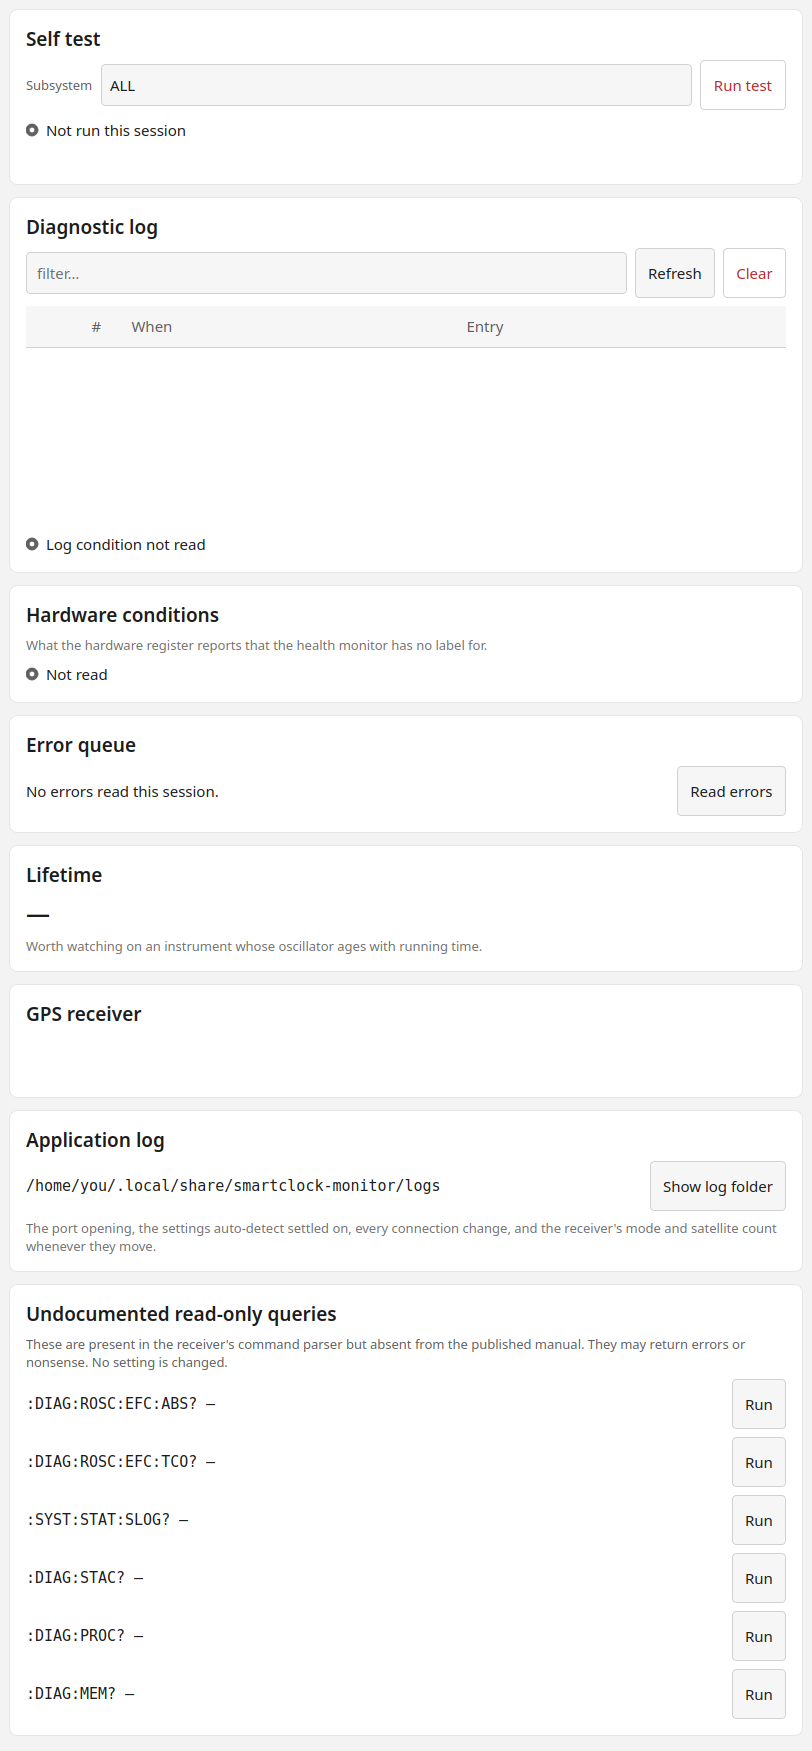
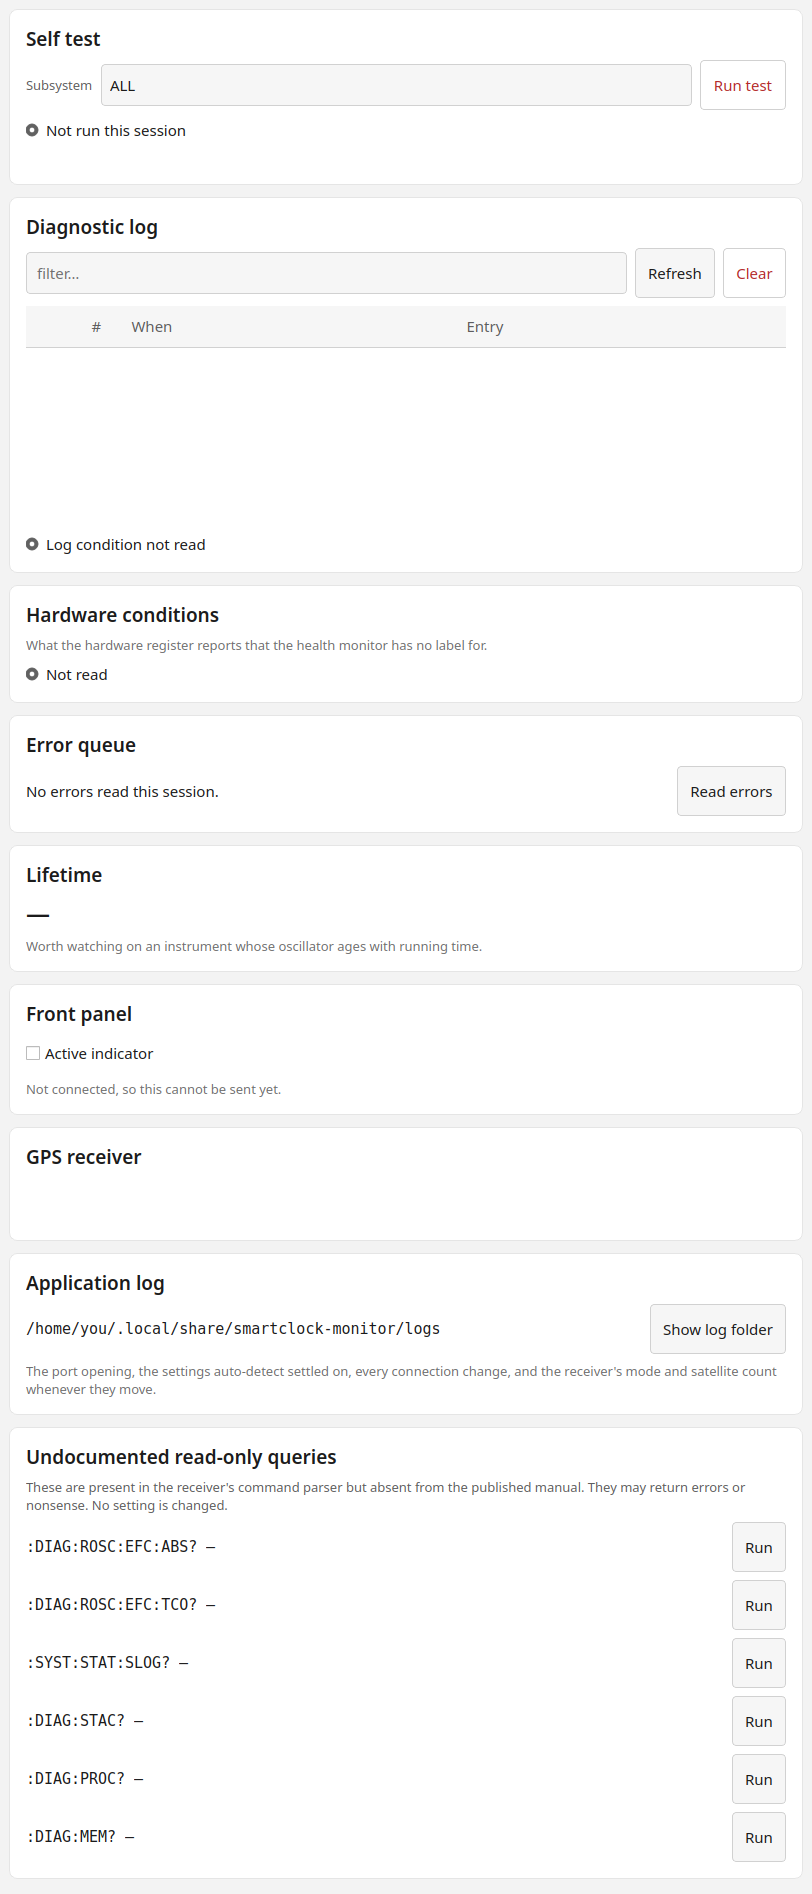
Catalogue §8.2's Safe setters, and give the lamp somewhere to be used
#118's second batch, and the first that writes to the receiver.

FOUR SETTERS. :LED:ACTive and :LED:ENABled are §8.2's Safe non-queries -
Safe because they change no receiver behaviour, so a §8.3 confirmation
would be asking permission to change nothing. *ESE and *SRE are §8.3's
mask setters and carry §8.3's sentence verbatim, shared between them as
the document shares it.

All four were put to the bench before being catalogued, with the ERROR
QUEUE DRAINED FIRST - and that clause is the whole of it. Read without
a drain, every :LED: write appears to raise E-221 "Settings conflict",
and I nearly recorded that as a finding. Drained, all four write
cleanly, both spellings work, the lamps read back as commanded, and
nothing is queued. The errors were a previous sweep's, which is the
attribution trap #105 exists for, met for the second time in a day.

§10.9's FRONT PANEL CARD gives :LED:ACTive a consumer: a toggle for the
Active indicator, which is the escape hatch for a lamp left lit by an
application that closed unexpectedly and the only way to exercise the
command at all until something drives it (#123).

Tier S, so no confirmation, and §9.11's other half follows - a Safe
setter gets no success bar, so THE TOGGLE'S OWN POSITION IS THE
FEEDBACK, and a write the receiver refuses puts it back. A switch that
stayed where a user put it while the lamp did not move would be the one
lie this card can tell.

The refresh sets the switch with its signals blocked, which is not
[…]

diff --git a/src/smartclock_monitor/views/diagnostics_page.py b/src/smartclock_monitor/views/diagnostics_page.py
@@ -30,6 +30,7 @@ from PySide6.QtCore import QUrl
 from PySide6.QtGui import QDesktopServices
 from PySide6.QtWidgets import (
     QAbstractItemView,
+    QCheckBox,
     QComboBox,
     QHBoxLayout,
     QHeaderView,
@@ -50,7 +51,7 @@ from smartclock_device.models.diagnostic_log_entry import DiagnosticLogEntry
 from smartclock_device.models.status_register_map import faults_with_no_health_label
 from smartclock_device.parsing import gps_engine
 from smartclock_device.parsing.diagnostic_log import parse_all
-from smartclock_device.parsing.scalars import parse_integer
+from smartclock_device.parsing.scalars import parse_boolean, parse_integer
 from smartclock_device.transport.transaction import Transaction
 from smartclock_monitor.platform.paths import log_directory
 from smartclock_monitor.services.commands import CommandRunner
@@ -110,6 +111,7 @@ class DiagnosticsPage(Page):
         layout.addWidget(self._build_conditions())
         layout.addWidget(self._build_queue())
         layout.addWidget(self._build_lifetime())
+        layout.addWidget(self._build_front_panel())
         layout.addWidget(self._build_gps_engine())
         layout.addWidget(self._build_application_log())
         layout.addWidget(self._build_experimental())
@@ -473,6 +475,51 @@ class DiagnosticsPage(Page):
         del reading
         self._retune()
 
+    def _build_front_panel(self) -> QWidget:
+        """§10.9's Front panel card: a toggle for the Active lamp.
+
+        **The manual half of the lamp feature.** It is the escape hatch for a lamp left lit by an
+        application that closed unexpectedly, and the only way to exercise `:LED:ACTive` at all
+        until something drives it automatically (#123).
+
+        Tier S, so no confirmation — §8.2's ruling is that the command changes no receiver
+        behaviour, and a confirmation would be asking permission to change nothing. §9.11's other
+        half follows: a Safe setter gets no success bar, so **the toggle's own position is the
+        feedback**, and a write that fails puts it back.
+        """
+        holder, holder_layout = card("Front panel")
+        self._lamp = QCheckBox("Active indicator")
+        self._lamp.setAccessibleName("The receiver's front-panel Active indicator")
+        self._lamp.clicked.connect(self._write_lamp)
+        holder_layout.addWidget(self._lamp)
+        self._lamp_note = label(
+            "The receiver takes about a second to answer a lamp write, so the switch settles a "
+            "moment after you click it.",
+            "tertiary",
+        )
+        self._lamp_note.setWordWrap(True)
+        holder_layout.addWidget(self._lamp_note)
+        return holder
+
+    def _write_lamp(self, wanted: bool) -> None:
+        """Write the lamp, and put the switch back if the receiver does not take it."""
+        runner = self._runner
+        if runner is None or not runner.is_connected:
+            self._lamp.setChecked(not wanted)
+            return
+        runner.run(
+            [(Capability.SET_ACTIVE_LAMP, "ON" if wanted else "OFF")],
+            lambda outcomes: self._absorb_lamp_write(outcomes, wanted),
+        )
+
+    def _absorb_lamp_write(self, outcomes: Sequence[CommandOutcome], wanted: bool) -> None:
+        wrote = next((o for o in outcomes if o.capability is Capability.SET_ACTIVE_LAMP), None)
+        if wrote is None or wrote.transaction is None or not wrote.transaction.succeeded:
+            # **Back where it was, and a sentence saying why.** A switch that stayed where a user
+            # put it while the lamp did not move would be the one lie this card can tell.
+            self._lamp.setChecked(not wanted)
+            self._lamp_note.setText("The receiver did not take that; the switch is back as it was.")
+
     def _build_gps_engine(self) -> QWidget:
         """§10.9's third card: what GPS receiver is inside the instrument.
 
@@ -517,6 +564,8 @@ class DiagnosticsPage(Page):
         gate(self._clear_log, driver, Capability.CLEAR_DIAGNOSTIC_LOG)
         gate(self._refresh_log, driver, Capability.DIAGNOSTIC_LOG)
         gate(self._read_errors, driver, Capability.ERROR_QUEUE)
+        if not gate(self._lamp, driver, Capability.ACTIVE_LAMP, Capability.SET_ACTIVE_LAMP):
+            self._lamp_note.setText(explain(driver))
 
         if driver is not None and driver.command(Capability.OPERATION_CONDITION) is None:
             self._decline_conditions()
@@ -556,6 +605,7 @@ class DiagnosticsPage(Page):
                 (Capability.GPS_ENGINE, None),
                 (Capability.OPERATION_CONDITION, None),
                 (Capability.HARDWARE_CONDITION, None),
+                (Capability.ACTIVE_LAMP, None),
             ],
             self._absorb,
         )
@@ -577,6 +627,16 @@ class DiagnosticsPage(Page):
         # §11.1: an unread or unparseable answer renders a dash rather than "0 h" — a zero being a
         # claim about the hardware where a dash is a statement about the read.
         self._lifetime.setText(DASH if value is None else f"{value:,} h")
+
+        lamp = answered.get(Capability.ACTIVE_LAMP)
+        if lamp is not None and lamp.transaction is not None and lamp.transaction.succeeded:
+            lit = parse_boolean(lamp.transaction.first_line)
+            if lit is not None:
+                # Without the guard the click handler fires on every refresh and writes the lamp
+                # back to where it already is, once a second, for ever.
+                self._lamp.blockSignals(True)
+                self._lamp.setChecked(lit)
+                self._lamp.blockSignals(False)
 
         self._absorb_conditions(answered)
 
@@ -793,6 +853,14 @@ class DiagnosticsPage(Page):
     @property
     def test_result(self) -> SeverityPill:
         return self._test_result
+
+    @property
+    def lamp_switch(self) -> QCheckBox:
+        return self._lamp
+
+    @property
+    def lamp_note_text(self) -> str:
+        return self._lamp_note.text()
 
     @property
     def log_condition(self) -> tuple[Severity, str]:

diff --git a/src/smartclock_device/commands/catalog.py b/src/smartclock_device/commands/catalog.py
@@ -962,6 +962,67 @@ LOG_ENTRY: Final = ScpiCommand(
     maximum=999,
 )
 
+
+# ---- §8.2's two Safe setters, and §8.3's two mask setters (#118) ---------------------------------
+
+#: §8.2's third Safe non-query and the only Safe command that takes a value.
+#:
+#: **Safe because it changes no receiver behaviour** — no timing, no discipline, nothing that
+#: outlives the lamp — so a §8.3 confirmation would be asking permission to change nothing. It is
+#: documented (`z3801.pdf` Table 4-2, *"Sets or queries Active LED"*), so §8.4's permanent block on
+#: undocumented set forms does not reach it.
+#:
+#: Confirmed on the bench 13 Sep 2026 with the error queue **drained first**: both spellings write,
+#: the lamp reads back as commanded, and neither queues an error. That last clause needs the drain
+#: to mean anything — read without one, these writes appear to raise `E-221` and the errors are a
+#: previous sweep's (#105).
+SET_ACTIVE_LAMP: Final = ScpiCommand(
+    mnemonic=":LED:ACTive",
+    summary="Turn the front-panel Active indicator on or off",
+    response=ResponseFormat.NONE,
+    argument=ArgumentKind.KEYWORD,
+    keywords=("ON", "OFF"),
+)
+
+#: The second user-definable indicator. `z3801.pdf`'s *Front Panel at a Glance* names both:
+#: *"User-definable indicators labeled Enabled and Active"*.
+SET_ENABLED_LAMP: Final = ScpiCommand(
+    mnemonic=":LED:ENABled",
+    summary="Turn the front-panel Enabled indicator on or off",
+    response=ResponseFormat.NONE,
+    argument=ArgumentKind.KEYWORD,
+    keywords=("ON", "OFF"),
+)
+
+#: IEEE 488.2's two mask setters, at §8.3's tier with §8.3's sentence.
+#:
+#: **The sentence is shared and is the specification's own.** §8.3 gives one row to both, and its
+#: wording covers both operations — which is the shape §8.3's own amendment note warns about, where
+#: `:IGN:NONE` shared a sentence with the command that did the opposite. It is carried verbatim
+#: rather than improved, because §8.3's text is the authority and a divergence in a confirmation
+#: sentence is exactly the kind that should be argued in an issue rather than made in a catalogue.
+SET_EVENT_ENABLE_MASK: Final = ScpiCommand(
+    mnemonic="*ESE",
+    summary="Set the standard event status enable mask",
+    response=ResponseFormat.NONE,
+    tier=SafetyTier.CONFIRM,
+    argument=ArgumentKind.INTEGER,
+    minimum=0,
+    maximum=65535,
+    confirmation="Change event/service-request enable mask?",
+)
+
+SET_SERVICE_REQUEST_MASK: Final = ScpiCommand(
+    mnemonic="*SRE",
+    summary="Set the service request enable mask",
+    response=ResponseFormat.NONE,
+    tier=SafetyTier.CONFIRM,
+    argument=ArgumentKind.INTEGER,
+    minimum=0,
+    maximum=65535,
+    confirmation="Change event/service-request enable mask?",
+)
+
 #: Every catalogued command. **The allowlist.**
 ALL: Final[tuple[ScpiCommand, ...]] = (
     IDENTITY,
@@ -1045,6 +1106,10 @@ ALL: Final[tuple[ScpiCommand, ...]] = (
     ENABLED_LAMP,
     LAST_QUERY_RESPONSE,
     LOG_ENTRY,
+    SET_ACTIVE_LAMP,
+    SET_ENABLED_LAMP,
+    SET_EVENT_ENABLE_MASK,
+    SET_SERVICE_REQUEST_MASK,
     *EXPERIMENTAL,
 )
 

diff --git a/tests/test_register_conditions.py b/tests/test_register_conditions.py
@@ -23,6 +23,7 @@ from conftest import NOW
 from smartclock_device.clock import FixedClock
 from smartclock_device.commands import catalog
 from smartclock_device.drivers.nmea.driver import NmeaDriver
+from smartclock_device.drivers.smartclock import SmartClockDriver
 from smartclock_device.models import status_register_map as registers
 from smartclock_device.models.status_register_map import faults_with_no_health_label
 from smartclock_monitor.themes.severity import Severity
@@ -196,3 +197,68 @@ def test_the_pills_follow_a_theme_change() -> None:
     page.set_palette_tokens(DARK)
 
     assert page.palette_of_condition_pills() == [DARK] * 2
+
+
+# ---- §10.9's Front panel card (#118) -------------------------------------------------------------
+
+
+def test_the_lamp_switch_shows_what_the_receiver_says() -> None:
+    page = page_reading(
+        **{
+            catalog.ACTIVE_LAMP.mnemonic: "1",
+            catalog.HARDWARE_CONDITION.mnemonic: "+0",
+            catalog.OPERATION_CONDITION.mnemonic: "+26",
+        }
+    )
+
+    assert page.lamp_switch.isChecked() is True
+
+
+def test_clicking_the_switch_writes_the_lamp() -> None:
+    """Tier S, so no confirmation: §8.2's ruling is that the command changes no receiver behaviour
+    and a confirmation would be asking permission to change nothing."""
+    page = DiagnosticsPage()
+    runner = FakeRunner(
+        answers={catalog.ACTIVE_LAMP.mnemonic: "0", catalog.SET_ACTIVE_LAMP.mnemonic: ""}
+    )
+    page.set_command_runner(runner)
+
+    page.lamp_switch.click()
+
+    assert (catalog.SET_ACTIVE_LAMP.mnemonic, "ON") in runner.sent
+    assert page.lamp_switch.isChecked() is True
+
+
+def test_a_write_the_receiver_refuses_puts_the_switch_back() -> None:
+    """§9.11: a Safe setter gets no success bar, so the switch's own position is the feedback — and
+    a switch that stayed where a user put it while the lamp did not move would be the one lie this
+    card can tell."""
+    page = DiagnosticsPage()
+    page.set_command_runner(FakeRunner(driver_for=SmartClockDriver(clock=FixedClock(NOW))))
+
+    page.lamp_switch.click()
+
+    assert page.lamp_switch.isChecked() is False
+    assert "back as it was" in page.lamp_note_text
+
+
+def test_a_refresh_does_not_write_the_lamp_back_at_itself() -> None:
+    """The click handler must not fire when the page sets the switch from a reading. Unguarded, a
+    page open on a locked receiver writes the lamp once a second for ever — and each write takes
+    the receiver about a second."""
+    page = DiagnosticsPage()
+    runner = FakeRunner(answers={catalog.ACTIVE_LAMP.mnemonic: "1"})
+    page.set_command_runner(runner)
+    page.refresh()
+
+    assert not [
+        mnemonic for mnemonic, _ in runner.sent if mnemonic == catalog.SET_ACTIVE_LAMP.mnemonic
+    ]
+
+
+def test_a_family_with_no_lamp_keeps_the_switch_and_explains() -> None:
+    page = DiagnosticsPage()
+    page.set_command_runner(FakeRunner(driver_for=NmeaDriver(clock=FixedClock(NOW))))
+
+    assert page.lamp_switch.isEnabled() is False
+    assert "no command for this" in page.lamp_note_text

diff --git a/tests/test_catalogue_covers_the_spec.py b/tests/test_catalogue_covers_the_spec.py
@@ -36,7 +36,7 @@ _SECTION: Final = "### 8.2 Tier S"
 #: trailing ``?``. Parameters are written ``<PRN>`` beside the mnemonic and are not part of it.
 _MNEMONIC: Final = re.compile(r"^[:*][A-Za-z:*]+\??$")
 
-#: The two entries in §8.2 that are **not queries**, each excluded for a stated reason rather than
+#: The one entry in §8.2 that is **not catalogued**, excluded for a stated reason rather than
 #: because the gate was inconvenient.
 #:
 #: ``*TST?`` is a query in spelling and a self-test in effect. §10.9 measured what running one costs
@@ -45,9 +45,8 @@ _MNEMONIC: Final = re.compile(r"^[:*][A-Za-z:*]+\??$")
 #: warning about the same operation, and cataloguing it as Safe would put an unconfirmed way to
 #: unlock the receiver in the console beside the confirmed one. **Surfaced, not resolved** (#120).
 #:
-#: ``:LED:ACTive`` is §8.2's Safe *setter*, which is a different batch of work with a different
-#: question attached (what, if anything, should drive the lamps).
-_NOT_QUERIES: Final[frozenset[str]] = frozenset({"*TST?", ":LED:ACTive"})
+#: ``:LED:ACTive`` was here too until #118's second batch catalogued it.
+_NOT_QUERIES: Final[frozenset[str]] = frozenset({"*TST?"})
 
 
 def inventory() -> list[str]:

diff --git a/src/smartclock_device/drivers/capability.py b/src/smartclock_device/drivers/capability.py
@@ -50,6 +50,7 @@ class Capability(Enum):
     ERROR_QUEUE = "the error queue"
     HARDWARE_CONDITION = "the hardware status register"
     OPERATION_CONDITION = "the operation status register"
+    ACTIVE_LAMP = "the front-panel Active indicator"
     TIME_CODE_FORMAT = "the time-code output format"
     TIME_CODE = "the time code itself"
     LEAP_ACCUMULATED = "accumulated leap seconds"
@@ -58,6 +59,7 @@ class Capability(Enum):
     LEAP_STATE = "whether a leap second is announced"
 
     # -- Writing -------------------------------------------------------------------------------
+    SET_ACTIVE_LAMP = "set the front-panel Active indicator"
     SET_ANTENNA_DELAY = "set the antenna delay"
     SET_ELEVATION_MASK = "set the elevation mask"
     SET_HOLDOVER_DURATION_THRESHOLD = "set the holdover uncertainty threshold"

diff --git a/src/smartclock_device/drivers/smartclock.py b/src/smartclock_device/drivers/smartclock.py
@@ -252,6 +252,8 @@ _BY_CAPABILITY: Final[dict[Capability, ScpiCommand]] = {
     Capability.ERROR_QUEUE: catalog.ERROR_QUEUE,
     Capability.HARDWARE_CONDITION: catalog.HARDWARE_CONDITION,
     Capability.OPERATION_CONDITION: catalog.OPERATION_CONDITION,
+    Capability.ACTIVE_LAMP: catalog.ACTIVE_LAMP,
+    Capability.SET_ACTIVE_LAMP: catalog.SET_ACTIVE_LAMP,
     Capability.TIME_CODE_FORMAT: catalog.TIME_CODE_FORMAT,
     Capability.TIME_CODE: catalog.TIME_CODE,
     Capability.LEAP_ACCUMULATED: catalog.LEAP_ACCUMULATED,

diff --git a/docs/how-to-use.md b/docs/how-to-use.md
@@ -330,7 +330,7 @@ corrections it had learned, and its time error grows from there.
 
 #### Diagnostics — `Ctrl+6`
 
-![The Diagnostics page: a Self test card with an ALL subsystem picker and a Run test button; a Diagnostic log card with a filter box, Refresh and Clear and a Log has room pill; a Hardware conditions card; an Error queue card with Read errors; a Lifetime card; an Application log card naming the log folder with a Show log folder button; and an Undocumented read-only queries card listing six SCPI queries each with a Run button](images/how-to-use/page-diagnostics.png)
+![The Diagnostics page: a Self test card with an ALL subsystem picker and a Run test button; a Diagnostic log card with a filter box, Refresh and Clear and a Log has room pill; a Hardware conditions card; an Error queue card with Read errors; a Lifetime card; a Front panel card with an Active indicator switch; an Application log card naming the log folder with a Show log folder button; and an Undocumented read-only queries card listing six SCPI queries each with a Run button](images/how-to-use/page-diagnostics.png)
 
 - **Self test** — pick one **subsystem** or `ALL` and press **Run test**, which names what it is
   about to do because the receiver drops what it is doing while it tests itself. Testing one
@@ -359,6 +359,12 @@ corrections it had learned, and its time error grows from there.
   read removes the entry it returns, so what is shown is what was read.
 - **Lifetime** — power-on hours, how long the receiver has run in total. An oven-controlled
   oscillator ages with running time, so this is the figure behind the drift the Timing page reports.
+- **Front panel** — a switch for the receiver's **Active indicator**, one of the two lamps on its
+  front panel that software can drive. Nothing drives it automatically yet, so this is both the
+  way to use it and the way to turn it off again if something else left it lit. The receiver takes
+  about a second to answer a lamp write, so the switch settles a moment after you click it — and
+  if the receiver refuses the write, the switch goes back where it was rather than telling you
+  something happened.
 - **Application log** — what the application saw: the port opening, the settings auto-detect
   settled on, every connection change, and the receiver's mode and satellite count whenever they
   move. The card names the folder and **Show log folder** opens it in the desktop's file manager.
